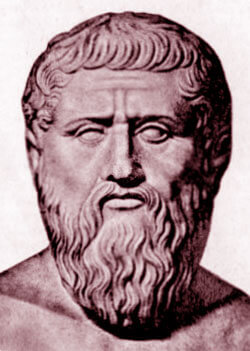
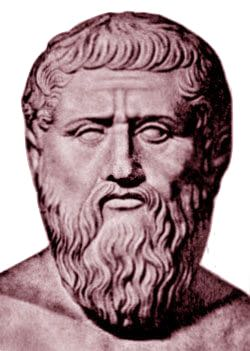
Change plato style, remove report option for now

diff --git a/components/ChatroomEmptyMessage.js b/components/ChatroomEmptyMessage.js
@@ -131,9 +131,9 @@ class ChatroomEmptyMessage extends Component {
     })
   }
 
-  onReport = () => {
-
-  }
+  // Not support yet
+  // onReport = () => {
+  // }
 
   render() {
     const chatroom = this.props.chatroom
@@ -146,26 +146,34 @@ class ChatroomEmptyMessage extends Component {
     if (chatroom.invitedUser.id === this.props.currentUserId) {
       return (
         <div>
-          <h3 className="title">👤 Someone invites you to chat!</h3>
+          <div>
+            <img src="/static/plato-red.jpg" alt="👤" className="plato" />
+            <h3 className="title"> Someone invites you to chat!</h3>
+          </div>
           <br />
           <p className="question">Do you want to talk?</p>
           {/* <br /> */}
           <div className="invitation-actions-container">
             <a onClick={this.onAccept} style={{ color: 'blue' }}>✔ Yes, start this chat.</a>
             <a onClick={this.onDeny} style={{ color: 'blue' }}>✖ No, I don't want to discuss this topic.</a>
-            <a onClick={this.onReport} style={{ color: '#d87511', fontSize: '14px' }}>🙁 Report, this topic seems inappropriate, random or not suitable to the community.</a>
+            {/* <a onClick={this.onReport} style={{ color: '#d87511', fontSize: '14px' }}>🙁 Report, this topic seems inappropriate, random or not suitable to the community.</a> */}
           </div>
           <style jsx>{`
             .title {
-              background: #dce2ed;
               padding: 8px;
               text-align: center;
+            }
+            .plato {
+              margin: 0 auto;
+              width: 100px;
+              height: auto;
+              display: block;
             }
             .question {
               font-size: 18px;
             }
             .invitation-actions-container a {
-              margin-top: 12px;
+              margin: 12px auto;
               display: block;
               font-size: 16px;
               color: green;
@@ -184,12 +192,11 @@ class ChatroomEmptyMessage extends Component {
       // Author will see this.            
       return (
         <div>
-          <h3>Your match is already invited.</h3>
+          <h3>👽 Your match is already invited.</h3>
           <br/>
           <p><b>Your match can...</b></p>
-          <p>• accept the topic, and the chat will start immediately,</p>
-          <p>• reject the topic, in which case we will invite another user.</p>
-          <hr/>
+          <p>• accept, and the chat will start immediately,</p>
+          <p>• reject, and we will invite another user.</p>
           <br/>
           {chatroom.deniedByUserIds.length > 0 
             && 
